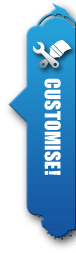
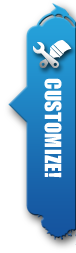
Add files via upload

Changed region(s): [[0.5789, 0.3043, 0.8158, 0.7194]]

diff --git a/style.css b/style.css
@@ -7,7 +7,7 @@
 @font-face {
     font-family: "ModNation Title";
     src: url("font/ModNationTitle.ttf");
-    letter-spacing: px;
+    letter-spacing: 1px;
 }
 
 
@@ -135,12 +135,31 @@ button.popup-abrir {
 }
 
 .btnCustomise {
-    float: right;
+    position: absolute;
+    right: 0px;
+    top: 105px;
+    z-index: 100;
+    width: 76px;
+    height: 253px
+}
+
+#btnMinigame{
+    position: absolute;
+    left: 0px;
+    top: 105px;
+    z-index: 100;
+    width: 76px;
+    height: 253px;
+    cursor: pointer;
+}
+
+.btnMiniGame {
+    float: left;
     margin: 0;
     padding: 0;
     cursor: pointer;
-
 }
+
 
 .logo {
     padding-left: 20px;
@@ -226,11 +245,14 @@ input[type="radio"]:checked+img {
 .popupText {
     padding-top: 7%;
     padding-left: 15%;
+    font-size: 25px;
+
 }
 
-.popupText h2 {
+.popupText p {
     font-size: 25px;
     color: white;
+    font-family: 'ModNation Title';
 }
 
 .btn {
@@ -275,7 +297,7 @@ hr {
     cursor: pointer;
 }
 
-.btnSelection button:first-child{
+.btnSelection button:first-child {
     top: 16px;
     position: relative;
 }
@@ -284,10 +306,9 @@ hr {
     text-align: left;
 }
 
-.joinimg img{
+.joinimg img {
     width: 15%;
     position: relative;
     bottom: 30px;
     padding-left: 3%;
 }
-

diff --git a/index.html b/index.html
@@ -23,15 +23,14 @@
     <nav></nav>
     <section>
         <article>
-            <h1>Welcome to ModNation Racers!</h1>
-            <p>ModNation Racers is a kart racing game for the PlayStation 3.</p>
             <img class="btnCustomise" src="img/btnCustomise.png" onclick="mostrarPopup()">
+            <img id="btnMinigame" src="img/btnMinigame.png" onclick="Minigame()">
             <div id="popup">
                 <div class="popupBTNClose">
                     <img class="ClosePopUp" src="img/btnClose.png" onclick="fecharPopup()">
                 </div>
                 <div class="popupText">
-                    <h2>Customise!</h2>
+                    <p>Customize!</p>
                 </div>
                 <div class="tabspace">
                     <div class="orgContent">
@@ -54,10 +53,7 @@
 
             </div>
         </article>
-        <article>
-            <h2>Community</h2>
-            <p>Connect with other ModNation Racers players to share your tracks, characters and karts.</p>
-        </article>
+        
     </section>
     <div class="centerfooter">
         <div class="imgfooter">

diff --git a/script.js b/script.js
@@ -82,3 +82,7 @@ function checkPreviousChoice() {
 
 
 window.onload = checkPreviousChoice;
+
+function Minigame() {
+  window.open("https://mega.nz/file/135xDIYK#bx9IPx_lXat2ROUNrA2zMPxHCM8D8Jow_-RAYzRnXi4");
+}
